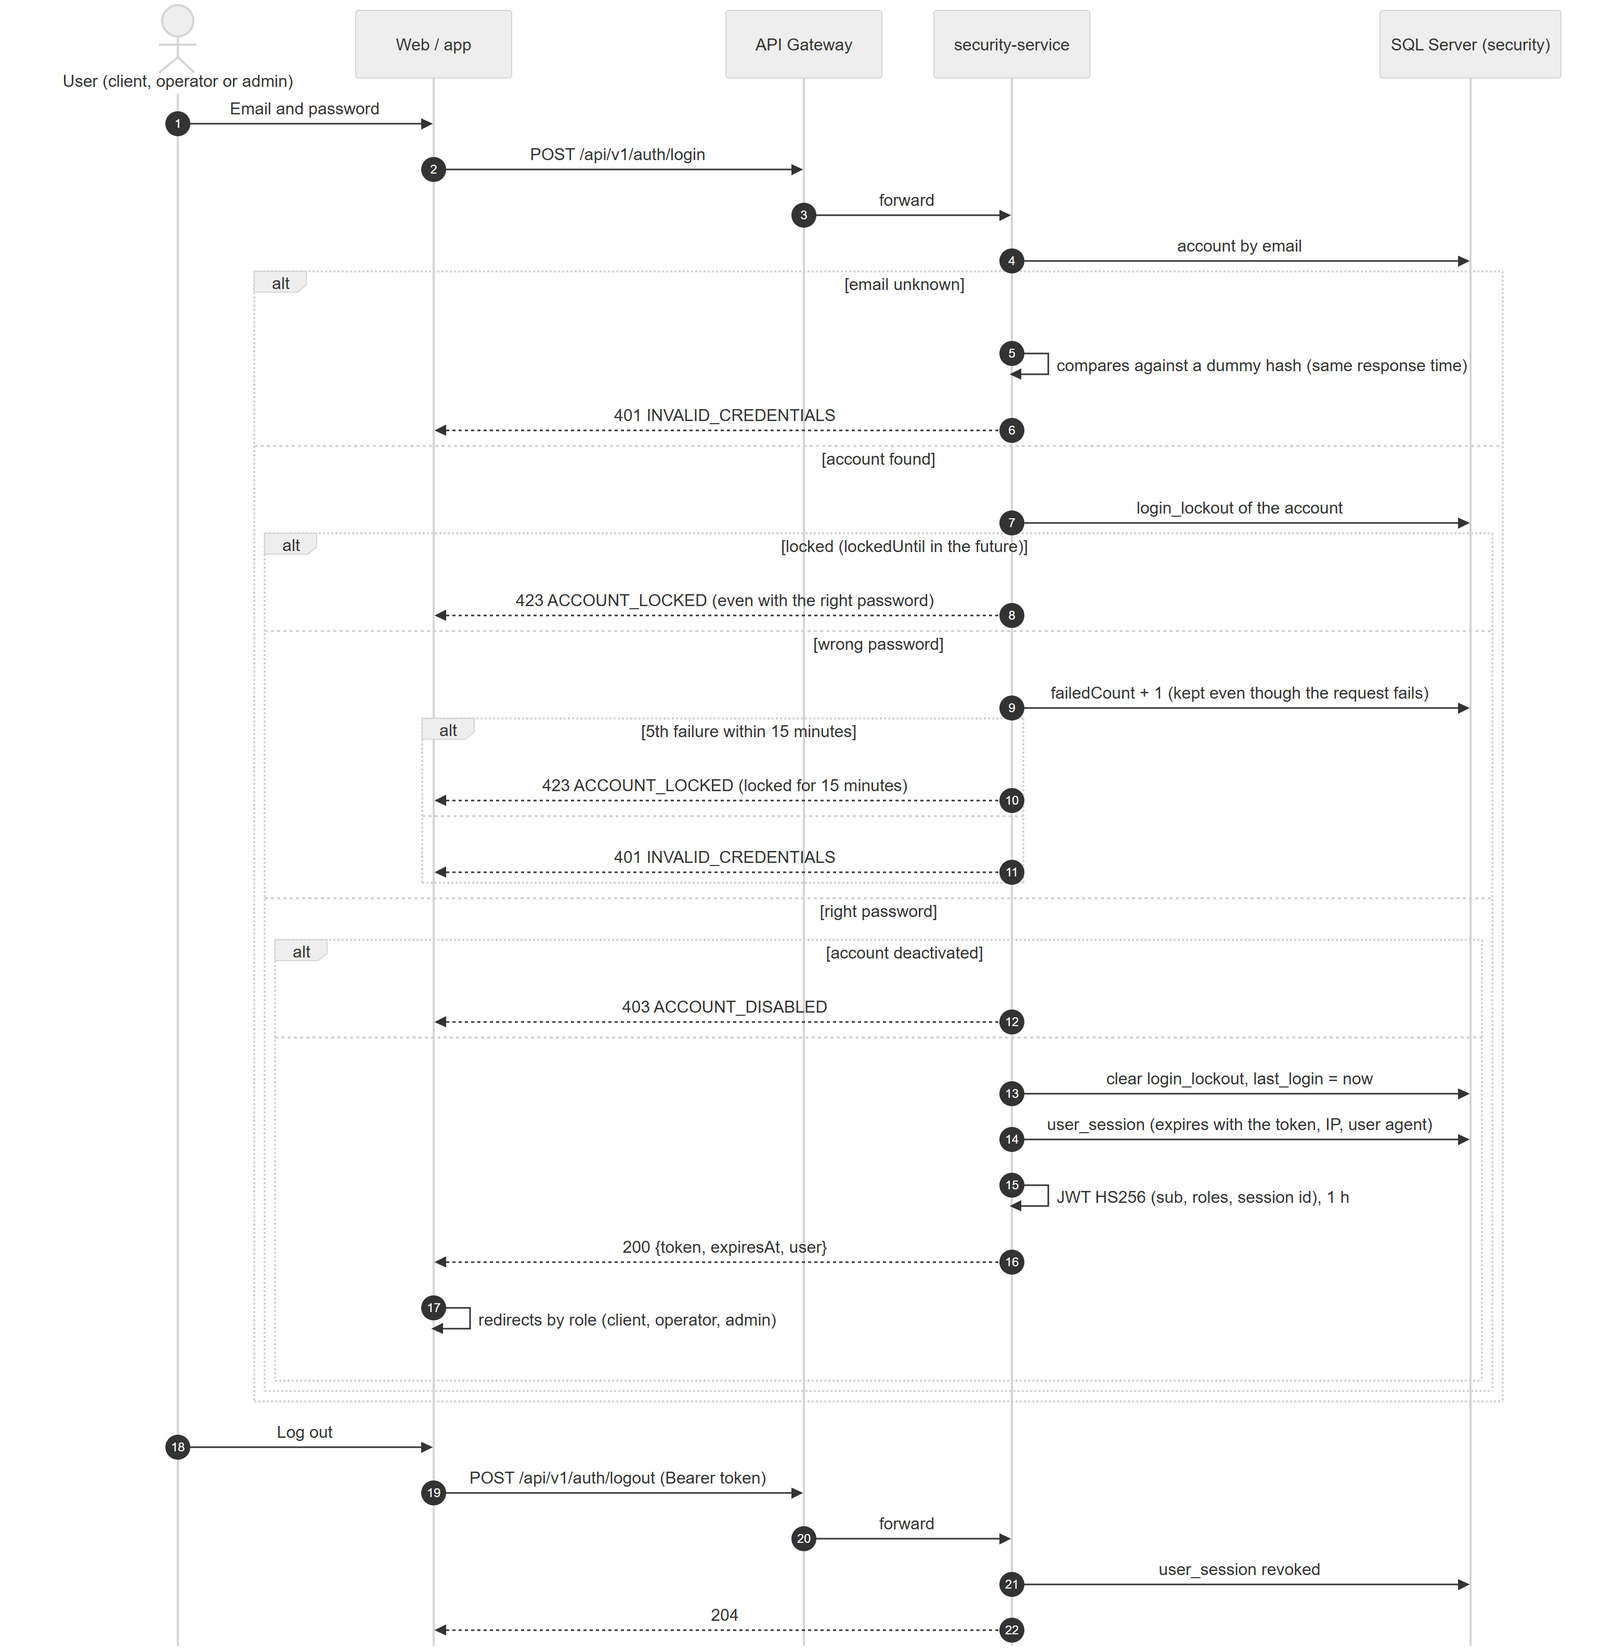
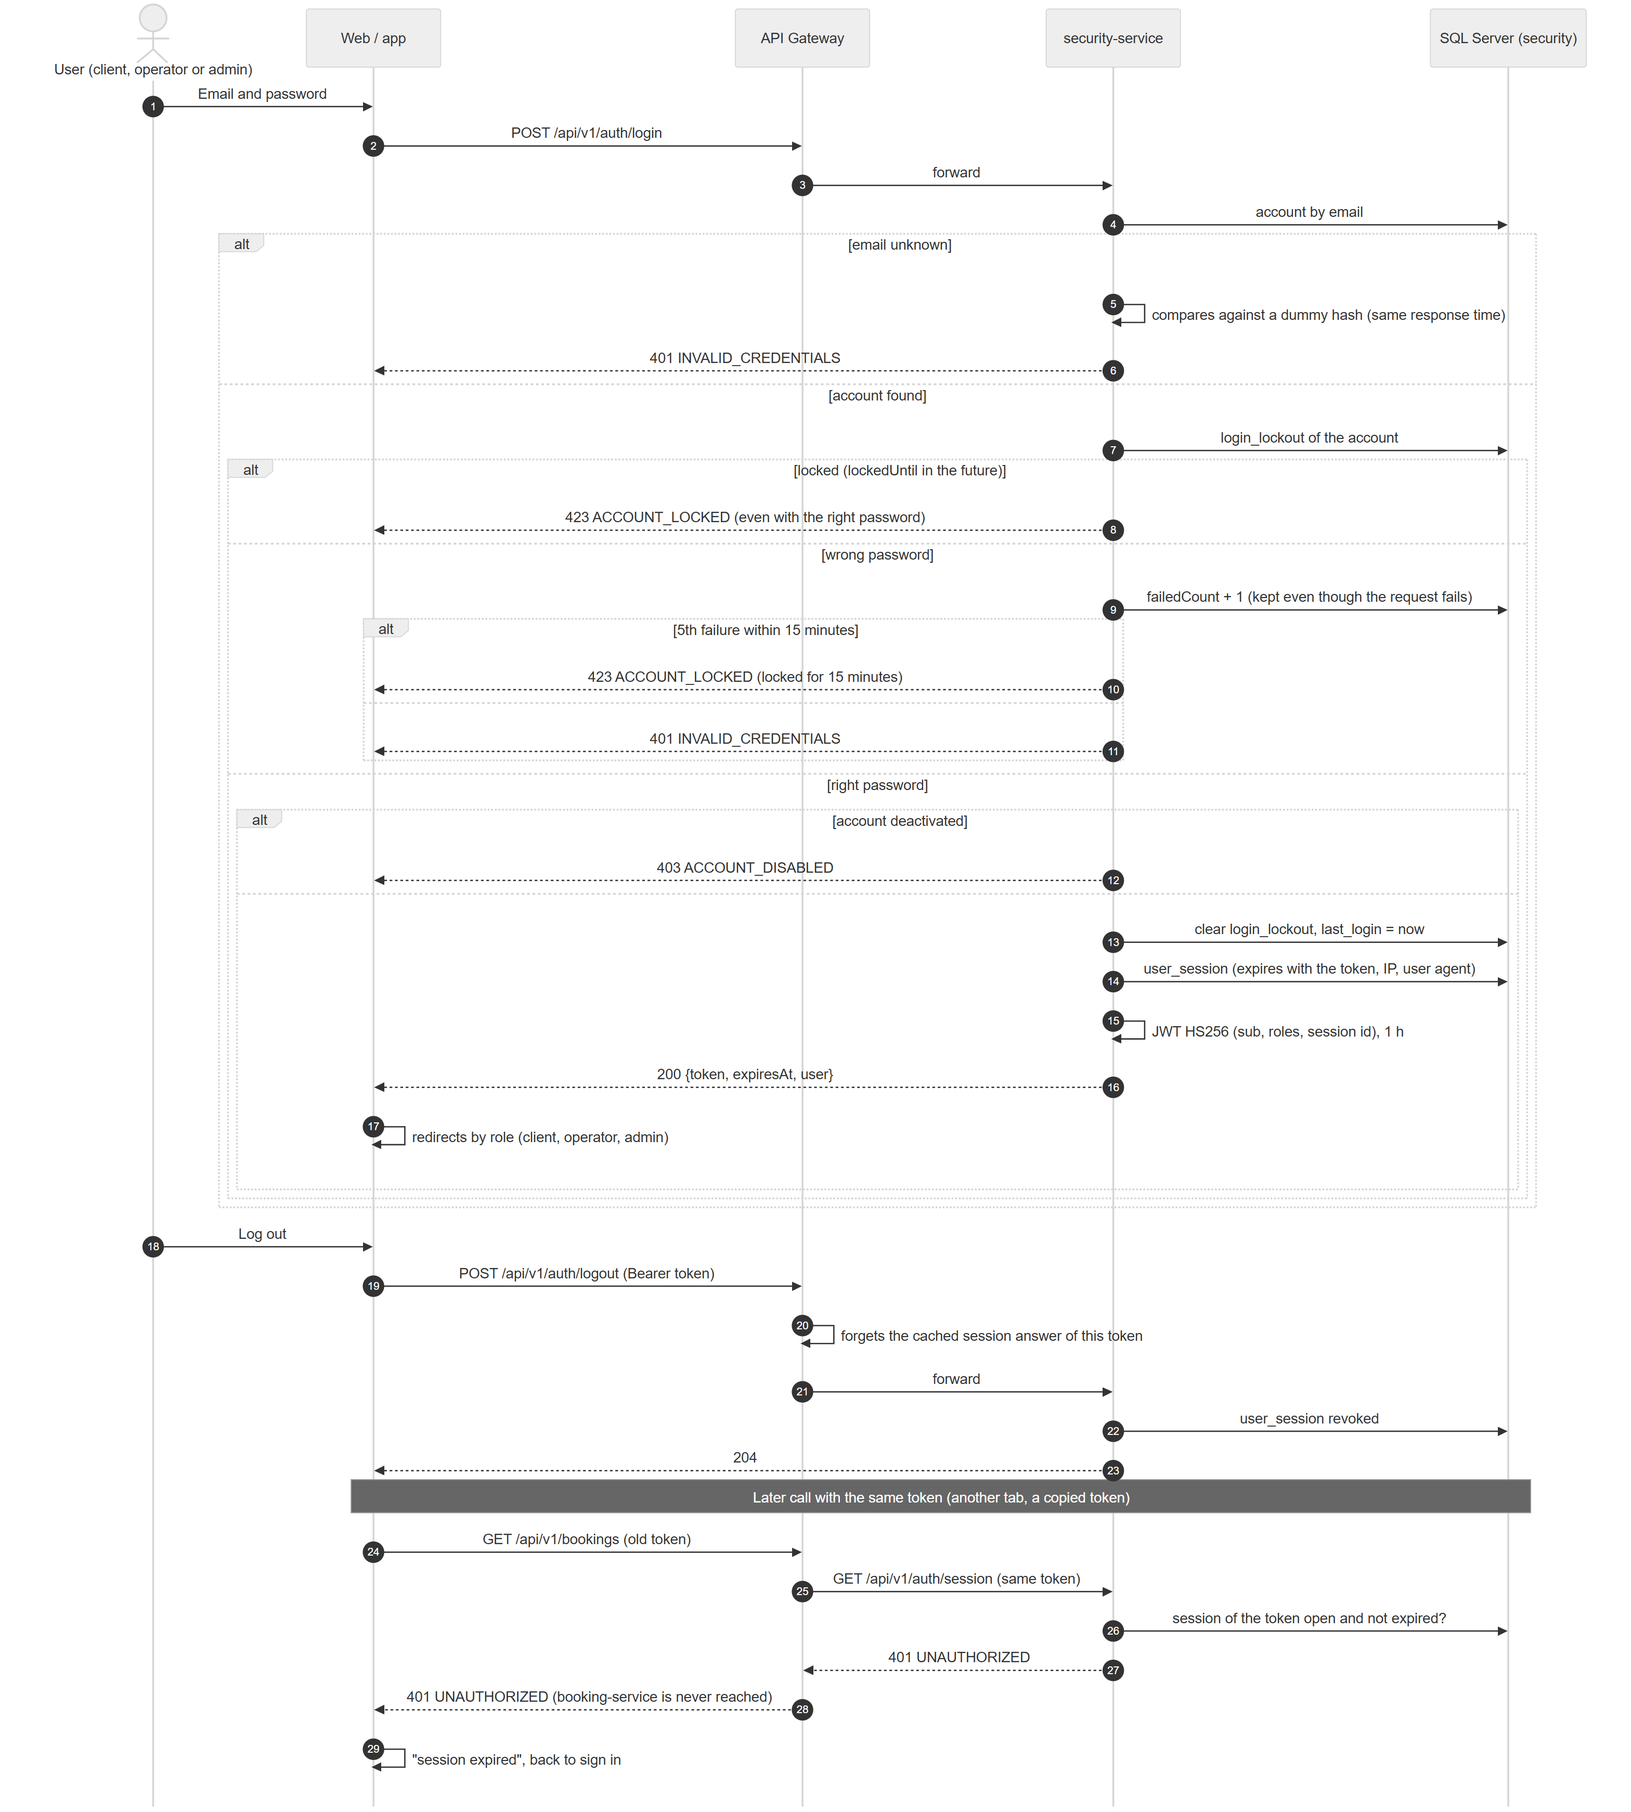
docs(security): describe how tokens of closed sessions are cut by security-service and the gateway

diff --git a/09-microservices/services/01-api-gateway/README.md b/09-microservices/services/01-api-gateway/README.md
@@ -26,13 +26,19 @@
 - Answer CORS for the browser (preflight included) with the same allowed origins as the services
   (`CORS_ALLOWED_ORIGINS`), and drop the services' own CORS headers so they are not duplicated.
 - Keep `/internal/**` (service-to-service routes, ADR-011 §8) unreachable from outside: 404.
+- Cut tokens of closed sessions (`SessionCheckFilter`, ADR-006 update 2026-10-21): before forwarding a
+  call with a token to any service, ask security-service `GET /api/v1/auth/session` and answer its own
+  401 if the session was closed. The answer is kept 30 seconds per token; `/api/v1/auth/**` is left to
+  security-service, and a logout through the gateway clears the cached answer at once. If
+  security-service does not answer, the call goes on.
 
 ## Out of scope (what it does NOT do)
 
 - **No business logic** — it only routes.
-- **No JWT validation** — each service verifies its own token (ADR-006). The gateway does not
-  add `X-User-*` headers and services never trust such headers.
-- **No data** — stateless.
+- **No JWT validation** — each service verifies its own token (ADR-006); the gateway only asks
+  whether the session is still open. It does not add `X-User-*` headers and services never trust
+  such headers.
+- **No data** — the only state is the short in-memory cache of session answers.
 - Rate limiting is not implemented yet (see `decisions.md`).
 
 ---
@@ -72,7 +78,9 @@ With Docker: `docker compose --profile app up -d` in `lavarapido-infra` (service
 
 `./mvnw test` — `GatewayRoutesTest` starts one fake HTTP server per service and checks that every
 route reaches the right one, that token and query string travel, that `/internal/**` and unknown
-paths are 404, and that CORS works without duplicated headers.
+paths are 404, and that CORS works without duplicated headers. `SessionCheckFilterTest` uses a fake
+security-service: an open session goes through, a closed one gets security-service's 401, the
+answer is cached per token, a logout clears it, and a failing security-service lets the call go on.
 
 ---
 

diff --git a/09-microservices/services/01-api-gateway/data-model.md b/09-microservices/services/01-api-gateway/data-model.md
@@ -1,7 +1,8 @@
 # Data Model — API Gateway
 
-> The gateway is **stateless**: no database, no cache, no session. Everything it needs is
-> configuration in `src/main/resources/application.yml`, overridable with environment variables.
+> The gateway has no database and no shared cache. Its only state is an in-memory map of session
+> answers (below). Everything else is configuration in `src/main/resources/application.yml`,
+> overridable with environment variables.
 
 ---
 
@@ -11,10 +12,10 @@
 |---|---|
 | Database | None |
 | Cache / shared store | None (no Redis in the stack) |
-| In-memory state | None that outlives a request |
+| In-memory state | Session answers from security-service, by SHA-256 of the token (never the token itself), 30 seconds each, at most 10 000 entries |
 
-Consequence: rate limiting and token revocation are **not** done here (they would need a shared
-store). See `decisions.md`.
+Consequence: rate limiting is **not** done here (it would need a shared store). Closed sessions are
+cut by asking security-service; each gateway instance keeps its own short cache. See `decisions.md`.
 
 ---
 
@@ -30,6 +31,9 @@ store). See `decisions.md`.
 | payment-service URL | route `payment-service` | `ROUTE_PAYMENT_URL` | `http://localhost:3005` |
 | notification-service URL | route `notification-service` | `ROUTE_NOTIFICATION_URL` | `http://localhost:3006` |
 | Allowed web origins | `app.cors.allowed-origins` | `CORS_ALLOWED_ORIGINS` | `http://localhost:4200` |
+| Session check on/off | `app.session-check.enabled` | `SESSION_CHECK_ENABLED` | `true` |
+| How long a session answer is kept | `app.session-check.cache-ttl` | `SESSION_CHECK_CACHE_TTL` | `30s` |
+| Wait for security-service | `app.session-check.timeout` | `SESSION_CHECK_TIMEOUT` | `3s` |
 
 Routes live in `spring.cloud.gateway.server.webmvc.routes` (path predicates per service; full table
 in `README.md`). Changing a route means editing the file and restarting the gateway.

diff --git a/07-api/authentication.md b/07-api/authentication.md
@@ -12,6 +12,7 @@ POST /api/v1/auth/login {email, password}
   → security-service checks the BCrypt hash and that the account is active
   → opens a session (security.user_session) and returns a signed JWT + expiry
 Client sends   Authorization: Bearer <token>   on every protected call
+Gateway        asks security-service whether the token's session is still open (cached 30 s)
 Each service   verifies signature, issuer, audience, expiry → roles → authorization
 POST /api/v1/auth/logout  → closes the session in security-service
 ```
@@ -34,9 +35,20 @@ user signs in again.
 | `iat`, `exp` | Issued at, expiry (`JWT_ACCESS_TOKEN_TTL`, default `1h`) |
 | Personal data | **None** (no email, no name) |
 
-The services validate signature, `iss`, `aud` and `exp`. They do **not** check whether the session
-was closed: after logout a token keeps working in the other services until it expires (accepted for
-the 1-hour lifetime; stated in `05-architecture/security-threat-model.md`).
+The services validate signature, `iss`, `aud` and `exp`. Whether the session is still open is
+checked in two places (ADR-006, update 2026-10-21):
+
+- security-service rejects a token of a closed or expired session on its own endpoints and answers
+  `GET /api/v1/auth/session` with 204 (open) or 401 (closed).
+- The gateway calls that endpoint before forwarding a call with a token to any other service and
+  keeps the answer 30 seconds per token (`SESSION_CHECK_CACHE_TTL`). A closed session gets the same
+  `401 UNAUTHORIZED` body security-service returns, with its CORS headers, so the web shows "session
+  expired" as with an expired token.
+
+A session closes on logout, when an administrator disables the account and when the owner closes it.
+A logout through the gateway takes effect at once; the other two reach the services within 30 seconds.
+If security-service does not answer, the gateway lets the call go on (the service still checks the
+signature).
 
 ---
 

diff --git a/09-microservices/services/02-security-service/README.md b/09-microservices/services/02-security-service/README.md
@@ -27,7 +27,9 @@
   2012). Both fields are optional so older app versions keep working.
 - Authenticate with email + password (BCrypt) and issue an **HS256 JWT valid for 1 hour**.
   Claims: `sub` (user id), `roles`, `sid` (session id), `iss`, `aud`, `iat`, `nbf`, `exp`, `jti`.
-- Record sessions (`user_session`); logout stores the session end.
+- Record sessions (`user_session`); logout stores the session end. A token whose session was closed
+  (logout, account disabled or closed) or expired is rejected with 401 (`ActiveSessionValidator`), and
+  `GET /api/v1/auth/session` tells the gateway whether a token's session is still open (204 / 401).
 - Lock an account for 15 minutes after 5 wrong passwords within 15 minutes (RF-004b, `login_lockout`):
   the login answers `423 ACCOUNT_LOCKED`, even with the right password, until it expires; a password
   reset lifts it.
@@ -58,7 +60,8 @@
 ## Out of scope (what it does NOT do)
 
 - Does not store vehicles, bookings or anything of another context.
-- Does not revoke tokens before they expire (ADR-006 trade-off): logout only ends the session record.
+- Does not stop closed-session tokens in the other services by itself: the gateway asks
+  `GET /api/v1/auth/session` for them (ADR-006, update 2026-10-21).
 - Does not send notifications itself, except the password recovery email.
 
 ---
@@ -70,6 +73,7 @@
 | POST | `/api/v1/auth/register` | public |
 | POST | `/api/v1/auth/login` | public |
 | POST | `/api/v1/auth/logout` | token |
+| GET | `/api/v1/auth/session` (204 if the token's session is open, 401 if it was closed or expired; used by the gateway) | token |
 | POST | `/api/v1/auth/password/forgot` · `/verify` · `/reset` | public |
 | GET · PATCH | `/api/v1/users/me` | token |
 | GET · PUT | `/api/v1/users/me/address` (`{ "address": "…" }`, up to 200 characters; empty deletes it) | token |

diff --git a/08-uml/diagrams/source/seq-login-lockout.md b/08-uml/diagrams/source/seq-login-lockout.md
@@ -1,7 +1,8 @@
 # Sequence — Login, lockout and logout (RF-002, RF-004b)
 
-Source: `security-service` `AuthController` (`/api/v1/auth/login`, `/logout`), `AuthenticationService.login /
-logout`, `LoginLockout`, `JwtTokenIssuer`; checked against the code on 2026-10-19.
+Source: `security-service` `AuthController` (`/api/v1/auth/login`, `/logout`, `/session`), `AuthenticationService.login /
+logout / isActive`, `LoginLockout`, `JwtTokenIssuer`, `ActiveSessionValidator`; gateway `SessionCheckFilter`; checked
+against the code on 2026-10-21.
 
 ```mermaid
 sequenceDiagram
@@ -45,10 +46,24 @@ sequenceDiagram
 
     U->>W: Log out
     W->>GW: POST /api/v1/auth/logout (Bearer token)
+    GW->>GW: forgets the cached session answer of this token
     GW->>S: forward
     S->>DB: user_session revoked
     S-->>W: 204
+
+    Note over W,DB: Later call with the same token (another tab, a copied token)
+    W->>GW: GET /api/v1/bookings (old token)
+    GW->>S: GET /api/v1/auth/session (same token)
+    S->>DB: session of the token open and not expired?
+    S-->>GW: 401 UNAUTHORIZED
+    GW-->>W: 401 UNAUTHORIZED (booking-service is never reached)
+    W->>W: "session expired", back to sign in
 ```
+
+The gateway keeps each answer of `/api/v1/auth/session` for 30 seconds per token, so an open session
+costs one extra call every half minute, not one per request. A session also closes when an
+administrator disables the account or the owner closes it; those reach the other services within the
+same 30 seconds (ADR-006, update 2026-10-21).
 
 The deactivated state is checked only after the password, so only the owner of the account learns it
 is disabled. Recovering the password also clears the lockout ([seq-password-recovery](./seq-password-recovery.md)).

diff --git a/05-architecture/decisions/records/ADR-006-authentication-and-authorization.md b/05-architecture/decisions/records/ADR-006-authentication-and-authorization.md
@@ -39,7 +39,18 @@ The caller forwards the authenticated token and correlation id. The receiving se
 
 ## Consequences
 
-JWT avoids a security-service lookup on every request. The trade-off is that a token cannot be revoked immediately in this version; it can remain valid until expiry.
+JWT avoids a security-service lookup on every request. The trade-off was that a token could not be revoked before expiry. Since 2026-10-21 that is no longer the case (see the update below).
+
+## Update 2026-10-21 — closed sessions
+
+A review found that a token kept working for up to an hour after a logout or after an administrator disabled the account. The decision above stays (each service verifies its own token), and two checks were added on top:
+
+- security-service rejects a token whose session (`sid` claim) is closed or expired, on every one of its endpoints (`ActiveSessionValidator`), and exposes `GET /api/v1/auth/session` (204 open, 401 closed).
+- The gateway asks that endpoint before forwarding a call with a token to any other service (`SessionCheckFilter`). The answer is kept 30 seconds per token, so it is one extra call per token and half minute, not per request; a logout through the gateway clears it at once.
+- If security-service does not answer, the call goes on (the service still checks the signature): the check cannot take the API down.
+- A token without `sid` is not tied to a session. Only someone holding the secret can sign one (the e2e tests do), and that person could put the `sid` of an open session anyway, so requiring it would protect nothing more.
+
+In production only Caddy is published (`docker-compose.prod.yml`), so every outside call goes through the gateway and gets the check.
 
 ## Alternatives
 

diff --git a/09-microservices/services/01-api-gateway/decisions.md b/09-microservices/services/01-api-gateway/decisions.md
@@ -54,6 +54,30 @@ with Spring Boot 4, as ADR-005 states.
 
 ---
 
+## Tokens of closed sessions are cut here
+
+**Date:** 2026-10-21
+**Context:** A review found that a token kept working for up to an hour after a logout or after an
+administrator disabled the account: the services only check signature and expiry. Options: (A) every
+service asks security-service, (B) the gateway asks once for all of them, (C) shorter tokens.
+
+**Decision:** (B). `SessionCheckFilter` runs right after CORS and, for a call with a token outside
+`/api/v1/auth/**`, asks security-service `GET /api/v1/auth/session` with the same `Authorization`. A
+401 is returned to the client as is; any 2xx lets the call go on. The answer is kept 30 seconds per
+token (by its SHA-256), and a logout through the gateway clears it. If security-service fails or does
+not answer in 3 seconds, the call goes on and nothing is cached.
+
+**Consequences:**
+- No service had to change: one place covers customer, booking, operations, payment and notification.
+- One extra call per token every 30 seconds, not per request.
+- Disabling an account takes up to 30 seconds to reach the other services; a logout is immediate.
+- The filter runs after CORS so the browser can read the 401 (without CORS headers it would see a
+  network error instead of "session expired").
+- Calls that skip the gateway (only possible inside the Docker network or in development) are not
+  checked; security-service's own endpoints are checked anyway.
+
+---
+
 ## Pending decision: rate limiting
 
 **Context:** Limit requests per IP on login/registration and per user on the rest.

diff --git a/00-governance/security-policy.md b/00-governance/security-policy.md
@@ -35,8 +35,9 @@
 
 ### Session tracking and token revocation
 
-- `security.user_session` records who logged in, when, and whether the session was closed — it answers "who was connected and when," it is **not** checked on every request (ADR-006)
-- **A JWT cannot be revoked before it expires.** Logging out closes the session row, and a lockout (RF-004b) blocks new logins, but a token issued before that moment stays valid until its hour runs out. This is an accepted trade-off (`05-architecture/overview.md`, AT-007), not an oversight — checking `user_session` on every request would turn `security-service` into a bottleneck all six services depend on
+- `security.user_session` records who logged in, when, and whether the session was closed (logout, account disabled by an administrator, account closed by its owner)
+- **A token of a closed session stops working** (since 2026-10-21, ADR-006 update). security-service rejects it on its own endpoints, and the gateway asks security-service (`GET /api/v1/auth/session`) before forwarding a call to any other service, keeping the answer 30 seconds per token (`SESSION_CHECK_CACHE_TTL`). A logout that goes through the gateway takes effect at once; disabling an account reaches the other services within those 30 seconds
+- If security-service does not answer, the gateway lets the call go on: the service behind it still checks signature and expiry, so an outage of security-service does not take the rest of the API down. A lockout (RF-004b) only blocks new logins; it does not close sessions already open
 
 ---
 

diff --git a/09-microservices/services/02-security-service/decisions.md b/09-microservices/services/02-security-service/decisions.md
@@ -6,7 +6,19 @@
 **Decision:** HS256 JWT, 1 hour, secret `JWT_SECRET` (≥ 32 bytes, startup fails otherwise). Each
 service validates signature, issuer, audience and expiry with Spring's resource server.
 **Consequences:** Simple to operate; every service holds the secret, so it must never be committed
-(`.env` is git-ignored). Tokens cannot be revoked before expiry — logout only ends the session record.
+(`.env` is git-ignored). Since 2026-10-21 a token of a closed session is rejected (next decision).
+
+## A token of a closed session is rejected
+
+**Context:** Logout, an account disabled by an admin or closed by its owner only set `revoked_at`; the
+token kept working until its hour ran out.
+**Decision:** The JWT decoder adds `ActiveSessionValidator` after the usual checks: the `sid` must be a
+session of that user, not revoked and not expired (`SessionStatusUseCase`, one lookup by primary key).
+`GET /api/v1/auth/session` answers 204 when the token gets through, so the gateway can ask the same
+question for the other services. A token without `sid` is not tied to a session: only a holder of the
+secret can sign one, and that person could use the `sid` of an open session anyway.
+**Consequences:** Every request to security-service does one more indexed read. The other services
+are covered by the gateway (see the API Gateway decisions).
 
 ## Login never reveals whether an email exists
 

diff --git a/05-architecture/security-threat-model.md b/05-architecture/security-threat-model.md
@@ -63,6 +63,8 @@ The current design uses:
 - JWT Bearer authentication
 - HS256 shared secret from environment configuration
 - one-hour token lifetime
+- tokens of closed sessions (logout, disabled or closed account) rejected by security-service and,
+  before any other service, by the gateway (`SessionCheckFilter`, answer cached 30 seconds)
 - BCrypt password hashing
 - role claims
 - ownership checks in the service
